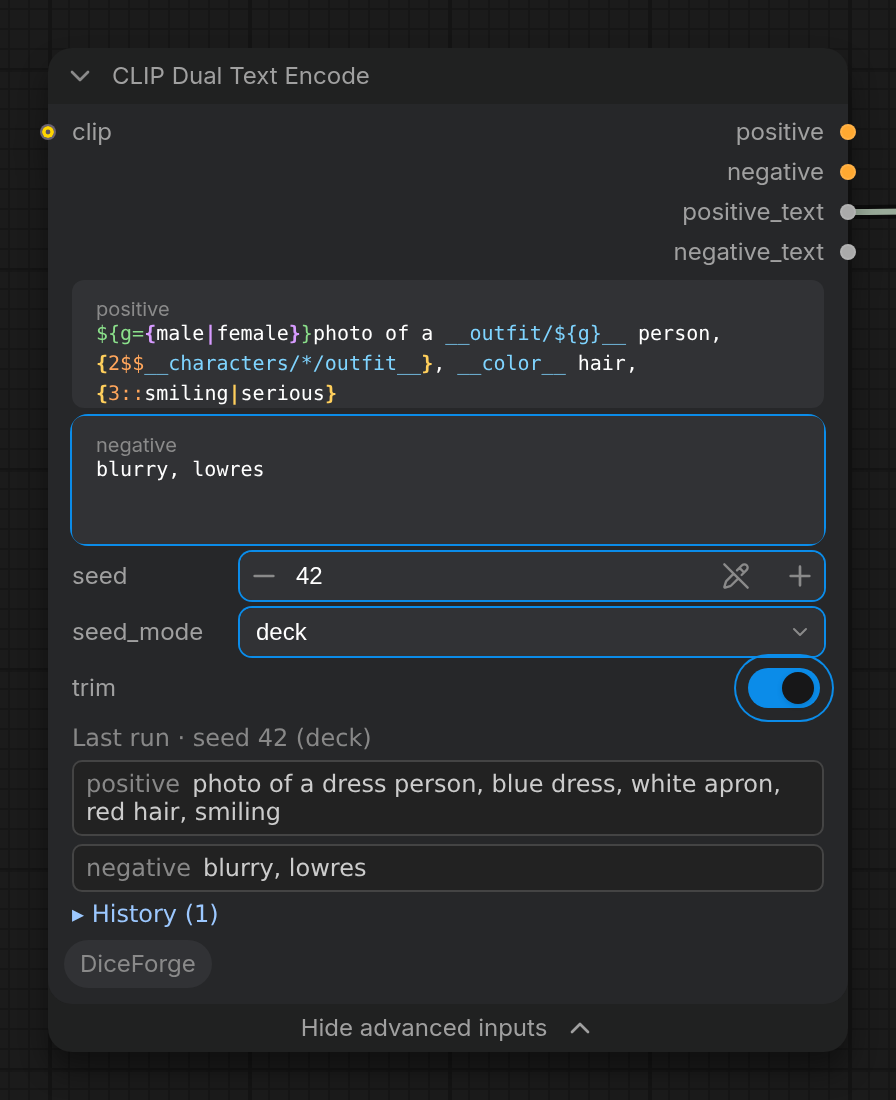
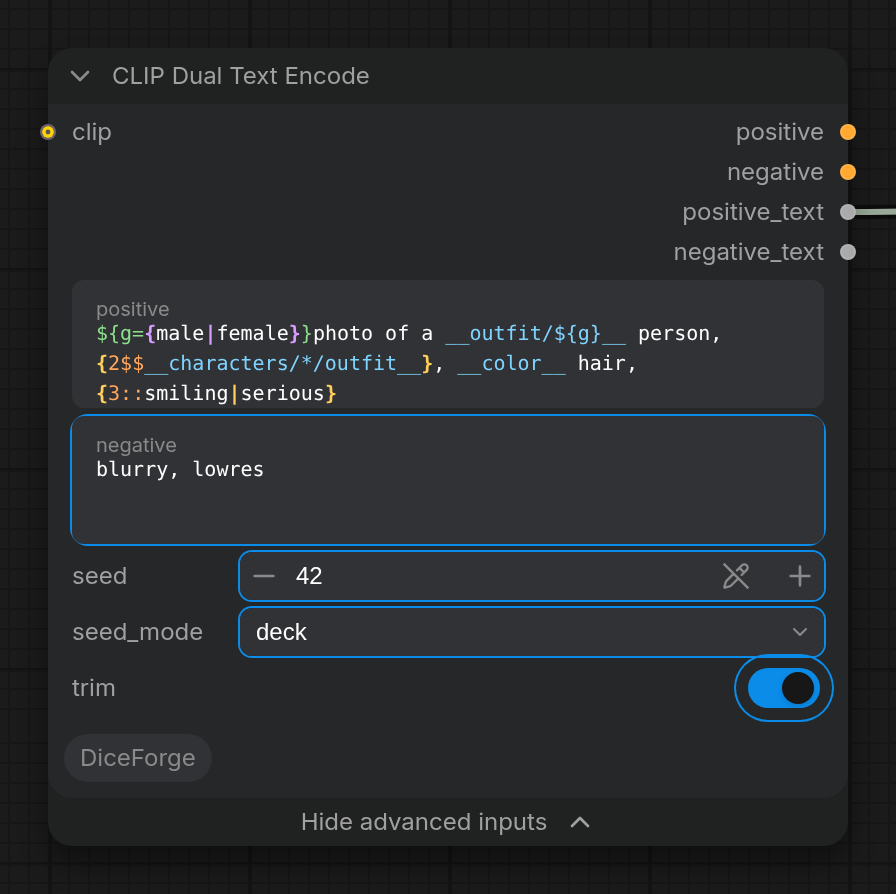
Drop the removed prompt preview from a screenshot and comments
The CLIP Dual Text Encode picture loses the Last run panel; comments name
the prompt history; CLAUDE.md lists BOOLEAN and COMBO as core types.

diff --git a/DiceForge/clip_text_encode_pos_neg.py b/DiceForge/clip_text_encode_pos_neg.py
@@ -582,7 +582,7 @@ class CLIPTextEncodePositiveNegative(io.ComfyNode):
                     advanced=True,
                 ),
             ],
-            has_intermediate_output=True, # The prompts of the last run reach the node's preview also when the node comes from the cache.
+            has_intermediate_output=True, # The prompts of the run reach the prompt history also when the node comes from the cache.
             # Outputs for the node: the model with the prompts' LoRAs first, then positive and negative conditioning, then the prompts as encoded
             # (with choices and wildcards filled in). Workflows saved with the model last are reordered when loaded (web/prompt_preview.js).
             outputs=[
@@ -614,7 +614,7 @@ class CLIPTextEncodePositiveNegative(io.ComfyNode):
         # Logging the prompts when choices or wildcards changed them, for debugging and verification purposes.
         if (positive_text, negative_text) != (positive, negative):
             logging.info(f"[DiceForge] CLIP Dual Text Encode | Seed: {seed} ({seed_mode}{note}) | Positive: {positive_text} | Negative: {negative_text}")
-        # The prompts as encoded, for the node's preview in the page (web/prompt_preview.js), with the seed and mode they came from.
+        # The prompts as encoded, for the prompt history in the page (web/prompt_preview.js), with the seed and mode they came from.
         if loras:
             applied = ", ".join(f"{os.path.splitext(os.path.basename(name))[0]} {model_weight:g}" for name, model_weight, _ in loras)
             note += f", LoRAs {applied}"

diff --git a/CLAUDE.md b/CLAUDE.md
@@ -70,8 +70,8 @@ DiceForge nodes should feel like ComfyUI's own (https://docs.comfy.org/basic-con
   in a node (a DOM widget), see whether a menu entry, a window, an output or a tooltip does the job: the last run's prompts under CLIP
   Dual Text Encode were removed for that (2026-10-23; they are in 🕘 Prompt history). The panels there now (Random Image, Danbooru Tag
   Enhancer, LoRA Stack, Dice Grid, XY Plot) are the node's own work; change them only when the author asks.
-- **Core types on the links** (`MODEL`, `CLIP`, `VAE`, `CONDITIONING`, `LATENT`, `IMAGE`, `MASK`, `INT`, `FLOAT`, `STRING`), so the
-  colors and connections are the ones users know. No look-alike types of our own.
+- **Core types on the links** (`MODEL`, `CLIP`, `VAE`, `CONDITIONING`, `LATENT`, `IMAGE`, `MASK`, `INT`, `FLOAT`, `STRING`, `BOOLEAN`, and `COMBO` for a list
+  input such as KSampler's sampler), so the colors and connections are the ones users know. No look-alike types of our own.
 - **The user owns the look:** title, color and size. A node's height is fitted only by `node_size.js`, which keeps a height the user
   dragged (it records the height it set in `properties.dice_forge_height`; another one is the user's).
 - **Menus:** extra tools go in the node's right-click menu (`getNodeMenuItems`) or a window it opens, after the core items (color, title,
